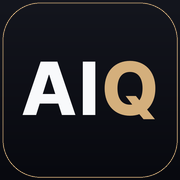
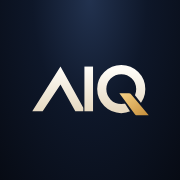
새 로고 AIQ 적용 (11/5): 홈 머리글·핸드 복기 머리글에 AIQ 로고, 앱 아이콘 4종 교체, 아이콘 캐시 v2
Claude-Session: https://claude.ai/code/session_019j9eAUVe7nfHiamMyWJYF2

diff --git a/index.html b/index.html
@@ -10,8 +10,8 @@
 <meta name="apple-mobile-web-app-status-bar-style" content="black-translucent">
 <meta name="apple-mobile-web-app-title" content="ALLIN IQ">
 <link rel="manifest" href="manifest.webmanifest">
-<link rel="icon" href="icons/icon-192.png">
-<link rel="apple-touch-icon" href="icons/apple-touch-icon.png">
+<link rel="icon" href="icons/icon-192.png?v=aiq">
+<link rel="apple-touch-icon" href="icons/apple-touch-icon.png?v=aiq">
 <link rel="preconnect" href="https://fonts.googleapis.com">
 <link rel="stylesheet" href="https://fonts.googleapis.com/css2?family=Barlow+Condensed:wght@600;700&family=IBM+Plex+Sans+KR:wght@400;500;700&family=IBM+Plex+Mono:wght@500;600&display=swap">
 <style>
@@ -657,9 +657,11 @@ body{font-size:16px;min-height:100vh;min-height:100dvh;
 :root{--sans:"Pretendard","IBM Plex Sans KR",system-ui,sans-serif;--num:"Pretendard","IBM Plex Sans KR",sans-serif}
 body{letter-spacing:-.01em}
 .pot,.sth,.stv,.bet,.tile .ts b,.lbl .sc2 b,.movs b,.tgr,.tgn,.lbl .rk{font-variant-numeric:tabular-nums;letter-spacing:-.02em}
-.wm{display:flex;flex-direction:column;gap:2px;line-height:1}
-.wm b{font-size:22px;font-weight:800;letter-spacing:.06em}.wm b i{font-style:normal;color:var(--gold)}
-.wm small{font-size:10px;letter-spacing:.32em;color:var(--muted);font-weight:600}
+.wm{display:flex;align-items:center;gap:12px;line-height:1;min-width:0}
+.wm .aiq{flex:none;display:block;filter:drop-shadow(0 3px 8px rgba(0,0,0,.45))}
+.wmt{display:flex;flex-direction:column;gap:4px;min-width:0;padding-left:12px;border-left:1px solid rgba(212,175,124,.28)}
+.wm b{font-size:15px;font-weight:800;letter-spacing:.14em;white-space:nowrap}.wm b i{font-style:normal;color:var(--gold)}
+.wm small{font-size:9px;letter-spacing:.24em;color:var(--muted);font-weight:600;white-space:nowrap}
 
 :root{--room:#07090F;--sheet:#0C1019;--sheet2:#0A0D15;--line:#1A1F2B;--line2:#2A2F3B;--fg:#F8F9FB;--muted:#A39C8E;--dim:#6E6A62;
  --rail:#14161C;--rail2:#3A3326;--gold:#D4AF7C;--gold-soft:#231D13;--gold-ink:#EAD3AE;--hero:#D4AF7C;--hero-soft:#14120E;--hero-ink:#EAD3AE;
@@ -763,7 +765,7 @@ html,body{background:radial-gradient(120% 60% at 50% 0%,#1A1A20 0%,#07090F 60%)}
 
 
 <script>
-window.HGQ_WEB=true;window.APP_VERSION="202611040242";
+window.HGQ_WEB=true;window.APP_VERSION="202611051349";
 (function(){let res;const ready=new Promise(r=>res=r);window.__fbSet=a=>res(a);
   setTimeout(()=>res(null),15000);
   window.claude={use:async n=>{const a=await ready;if(!a)return null;return n==="db"?a.db:n==="user"?a.user:null}};})();
@@ -2967,10 +2969,13 @@ function ctabRender(){
 function myRankText(){
   try{const r=lbRowsFor("all").ranked,i=LB.uid?r.findIndex(x=>x.id===LB.uid):-1;return i>=0?`${i+1}위`:"-"}catch(e){return"-"}
 }
+// ALLIN IQ 로고 (AIQ: 상아색 ΛIQ + 금색 Q 꼬리), 2026-11-05
+function aiqMark(w){const h=Math.round(w*440/940);
+  return `<svg class="aiq" width="${w}" height="${h}" viewBox="0 -30 940 440" role="img" aria-label="ALLIN IQ"><defs><linearGradient id="aiqIv" x1="0" y1="0" x2="0" y2="1"><stop offset="0" stop-color="#FFFDF8"></stop><stop offset="1" stop-color="#E6D9C2"></stop></linearGradient><linearGradient id="aiqGo" x1="0" y1="0" x2="1" y2="1"><stop offset="0" stop-color="#F6D287"></stop><stop offset="1" stop-color="#C68E3A"></stop></linearGradient><mask id="aiqMk" maskUnits="userSpaceOnUse" x="-20" y="-40" width="1000" height="480"><rect x="-20" y="-40" width="1000" height="480" fill="#fff"></rect><polygon points="680,200 797,200 958,406 812,406" fill="#000"></polygon></mask></defs><polygon points="10,358 233,5 413,330 413,358 350,358 233,147 92,358" fill="url(#aiqIv)"></polygon><rect x="422" y="5" width="68" height="353" fill="url(#aiqIv)"></rect><circle cx="713" cy="183" r="154" fill="none" stroke="url(#aiqIv)" stroke-width="72" mask="url(#aiqMk)"></circle><path d="M698 216 L773 216 Q785 216 792 225 L930 390 L838 390 Q828 390 822 383 Z" fill="url(#aiqGo)"></path></svg>`}
 function menu(){
   SCREEN="menu";
   const m=myCard();
-  $("top").innerHTML=`<div class="wm"><b>ALLIN <i>IQ</i></b><small>PLAY SMARTER · THINK DEEPER</small></div>`;
+  $("top").innerHTML=`<div class="wm">${aiqMark(60)}<span class="wmt"><b>ALLIN <i>IQ</i></b><small>PLAY SMARTER · THINK DEEPER</small></span></div>`;
   $("prog").innerHTML="";$("stage").innerHTML="";
   const nm=MYNAME?`${esc(MYNAME)} 님`:"게스트";
   if(MENUTAB==="rank"){
@@ -3216,7 +3221,7 @@ noteFix();
 menu();
 lbInit();
 </script>
-<script src="webgate.js?v=202611040242"></script>
+<script src="webgate.js?v=202611051349"></script>
 <div id="upd" class="upd" hidden><span>새 버전이 있어요</span><button id="updGo">새로고침</button></div>
 <script>
 // new-version notice: version.json is rewritten on every deploy

diff --git a/review/index.html b/review/index.html
@@ -7,6 +7,7 @@
 <link rel="preconnect" href="https://fonts.googleapis.com">
 <link rel="preconnect" href="https://fonts.gstatic.com" crossorigin>
 <link rel="stylesheet" href="https://fonts.googleapis.com/css2?family=JetBrains+Mono:wght@500;700&family=Noto+Sans+KR:wght@400;500;700;800&display=swap">
+<link rel="icon" href="../icons/icon-192.png?v=aiq">
 <link rel="stylesheet" href="css/style.css">
 <style>
 .app{-webkit-user-select:none;user-select:none;-webkit-touch-callout:none}
@@ -19,7 +20,7 @@
 <div class="app">
   <header>
     <a class="hr-home" href="../" target="_top">‹ ALLIN IQ 홈</a>
-    <div class="wm"><b>ALLIN <i>IQ</i></b><small>HAND REVIEW</small></div>
+    <div class="wm"><svg class="aiq" width="56" height="26" viewBox="0 -30 940 440" role="img" aria-label="ALLIN IQ"><defs><linearGradient id="aiqIv" x1="0" y1="0" x2="0" y2="1"><stop offset="0" stop-color="#FFFDF8"></stop><stop offset="1" stop-color="#E6D9C2"></stop></linearGradient><linearGradient id="aiqGo" x1="0" y1="0" x2="1" y2="1"><stop offset="0" stop-color="#F6D287"></stop><stop offset="1" stop-color="#C68E3A"></stop></linearGradient><mask id="aiqMk" maskUnits="userSpaceOnUse" x="-20" y="-40" width="1000" height="480"><rect x="-20" y="-40" width="1000" height="480" fill="#fff"></rect><polygon points="680,200 797,200 958,406 812,406" fill="#000"></polygon></mask></defs><polygon points="10,358 233,5 413,330 413,358 350,358 233,147 92,358" fill="url(#aiqIv)"></polygon><rect x="422" y="5" width="68" height="353" fill="url(#aiqIv)"></rect><circle cx="713" cy="183" r="154" fill="none" stroke="url(#aiqIv)" stroke-width="72" mask="url(#aiqMk)"></circle><path d="M698 216 L773 216 Q785 216 792 225 L930 390 L838 390 Q828 390 822 383 Z" fill="url(#aiqGo)"></path></svg><span class="wmt"><b>ALLIN <i>IQ</i></b><small>HAND REVIEW</small></span></div>
     <h1>핸드 복기</h1>
     <p class="hr-lead">실제로 친 핸드를 넣으면 프리플랍부터 리버까지 결정마다 해설해요.</p>
     <details class="hr-what"><summary>어떻게 계산하나요?</summary><p><b>순서</b> ① 히어로 자리·카드·스택 → ② 빌런 자리·스택·카드(여러 명) → ③ 게임 시작 → 차례대로 액션, 라운드마다 플랍·턴·리버 카드 → 핸드가 끝나면 전체 해설.</p><p><b>계산</b> 실제 솔버가 아닌 간이 계산이에요. 프리플랍은 근사 차트, 플랍 이후는 직접 계산한 승률과 단순 폴드 모델로 만든 액션별 EV예요.</p><p><b>근사 차트</b> 오픈 대응·3벳·4벳 차트는 ALLIN IQ 기준서의 빈도(자리·스택별 3벳·콜·올인 비율)에 맞춰 핸드 강도 순서로 칸을 채운 차트예요. 첫 진입·멀티웨이 차트는 공개 차트의 비율로 만든 근사예요. 솔버가 계산한 정답이 아니어서, 실제 솔버와 칸 몇 개가 다를 수 있어요. 칸 색은 그 핸드의 대표 행동(빨강 밸류, 금색 블러프, 파랑 콜, 연한 칸 섞기)이고 빈도가 아니에요.</p><p><b>지금 기준</b> 20~35BB에서 IP가 앞·중간 포지션(UTG~HJ) 오픈에 3벳할 때는 올인 대신 작은 3벳(오픈의 약 2.5배), 40BB 4벳은 3벳의 약 2배, 75BB 이상 4벳은 3벳의 2.5~2.75배예요. ICM 가산은 머니 근처 +3%p, 버블 +7%p, 파이널 +4%p예요.</p></details>

diff --git a/review/css/style.css b/review/css/style.css
@@ -190,7 +190,7 @@ button.hrc{cursor:pointer;font:inherit;font-family:var(--f-mono);font-weight:700
 .hr-more summary{cursor:pointer;font-size:13px;font-weight:700;color:var(--felt)}
 
 /* ALLIN IQ 머리말·버튼 */
-.wm{display:flex;flex-direction:column;line-height:1.1;margin-bottom:10px}.wm b{font-size:22px;font-weight:800;letter-spacing:.02em}.wm i{font-style:normal;color:#D4AF7C}.wm small{font-size:10px;letter-spacing:.18em;color:var(--muted)}
+.wm{display:flex;align-items:center;gap:12px;line-height:1.1;margin-bottom:10px}.wm .aiq{flex:none;display:block;filter:drop-shadow(0 3px 8px rgba(0,0,0,.45))}.wmt{display:flex;flex-direction:column;gap:4px;padding-left:12px;border-left:1px solid rgba(212,175,124,.28)}.wm b{font-size:15px;font-weight:800;letter-spacing:.14em}.wm i{font-style:normal;color:#D4AF7C}.wm small{font-size:9px;letter-spacing:.2em;color:var(--muted)}
 .tool{border-color:rgba(212,175,124,.28);border-radius:18px}
 .hr-tabs button[aria-selected="true"]{color:#1A1306}
 .hr-what{margin:6px 0 4px;border:1px solid var(--line);border-radius:12px;padding:8px 12px;background:var(--sheet);font-size:13.5px;color:var(--muted)}

diff --git a/sw.js b/sw.js
@@ -1,8 +1,8 @@
 // pages and code: network first (always the newest deploy when online); fonts and icons: cache first
-const CACHE = "allin-iq-v1";
-const STATIC = ["fonts/Pretendard-Regular.woff2", "fonts/Pretendard-SemiBold.woff2", "fonts/Pretendard-Bold.woff2", "fonts/Pretendard-ExtraBold.woff2", "icons/icon-192.png"];
+const CACHE = "allin-iq-v2"; // 11/5 AIQ 아이콘으로 바꾸며 v2
+const STATIC = ["fonts/Pretendard-Regular.woff2", "fonts/Pretendard-SemiBold.woff2", "fonts/Pretendard-Bold.woff2", "fonts/Pretendard-ExtraBold.woff2", "icons/icon-192.png?v=aiq"];
 self.addEventListener("install", (e) => { self.skipWaiting(); e.waitUntil(caches.open(CACHE).then((c) => c.addAll(STATIC)).catch(() => {})); });
-self.addEventListener("activate", (e) => e.waitUntil(self.clients.claim()));
+self.addEventListener("activate", (e) => e.waitUntil(caches.keys().then((ks) => Promise.all(ks.filter((k) => k !== CACHE).map((k) => caches.delete(k)))).then(() => self.clients.claim())));
 self.addEventListener("fetch", (e) => {
   const u = new URL(e.request.url);
   if (e.request.method !== "GET" || u.origin !== location.origin) return;

diff --git a/tools/webtest/t_home.py b/tools/webtest/t_home.py
@@ -20,6 +20,12 @@ async def main():
                     if r['nav']!=5 or r['on']!=tab:bad.append(f'{w}px {tab}: 하단 메뉴 이상 {r}')
         await pg.set_viewport_size({'width':390,'height':844})
         await pg.evaluate("()=>{STATS={n:3,sum:240,streak:0,best:0};MENUTAB='home';menu()}")
+        # 머리글 AIQ 로고(11/5): 로고 그림 + ALLIN IQ 글자, 320폭에서도 머리글이 한 줄
+        lg=await pg.evaluate("()=>{const s=document.querySelector('#top .wm svg.aiq'),t=document.querySelector('#top .wmt');return{svg:!!s,w:s?s.getBoundingClientRect().width:0,txt:t?t.innerText:''}}")
+        if not lg['svg'] or lg['w']<40:bad.append(f'머리글 AIQ 로고 없음 {lg}')
+        if 'ALLIN' not in lg['txt']:bad.append('머리글 ALLIN IQ 글자 없음')
+        import json as _j;mf=_j.load(open(os.path.join(os.path.dirname(os.path.abspath(__file__)),'..','..','manifest.webmanifest'),encoding='utf-8'))
+        if not all('v=aiq' in i['src'] for i in mf['icons']):bad.append('앱 아이콘 주소가 새 아이콘이 아님')
         # 하단 메뉴로 이동
         for mt,exp in [('rank','lbbox'),('chart','ctab'),('more','adGo'),('home','go')]:
             await pg.evaluate("(m)=>document.querySelector('.mnav [data-mt=\"'+m+'\"]').click()",mt);await asyncio.sleep(.2)

diff --git a/tools/build_web.py b/tools/build_web.py
@@ -29,8 +29,8 @@ rep('<title>홀덤 GTO 퀴즈</title>\n<meta name="claude:viewport-fit-sides" co
 <meta name="apple-mobile-web-app-status-bar-style" content="black-translucent">
 <meta name="apple-mobile-web-app-title" content="ALLIN IQ">
 <link rel="manifest" href="manifest.webmanifest">
-<link rel="icon" href="icons/icon-192.png">
-<link rel="apple-touch-icon" href="icons/apple-touch-icon.png">''')
+<link rel="icon" href="icons/icon-192.png?v=aiq">
+<link rel="apple-touch-icon" href="icons/apple-touch-icon.png?v=aiq">''')
 rep('</style>\n','</style>\n</head>\n<body>\n',1) if False else None
 i=s.index('</style>',s.index('<style>'));
 # the game has several style blocks? close head after the last style that precedes <div class="app">
